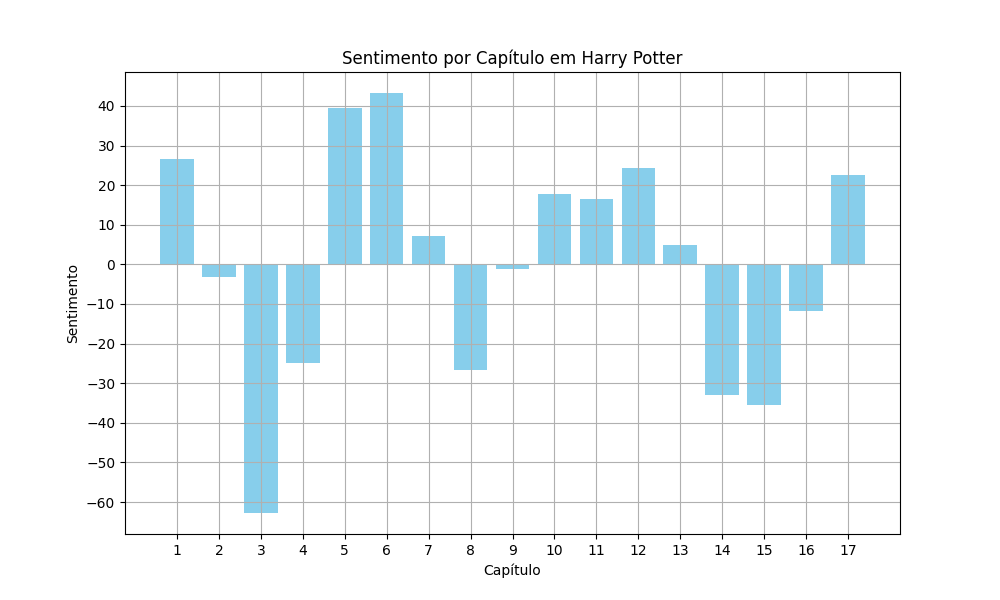
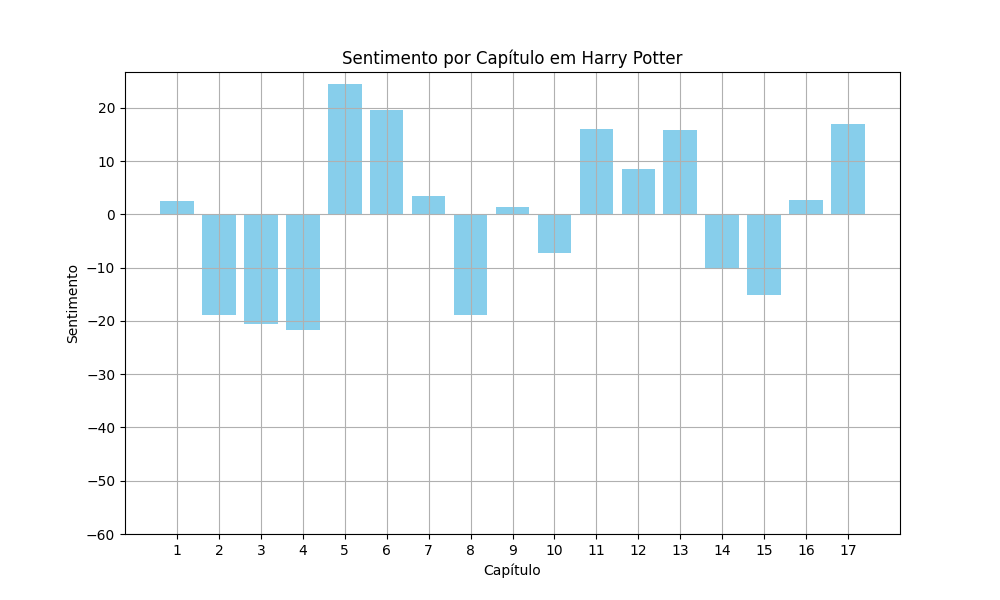
2 versoes

diff --git a/trabalhoLEM.py b/trabalhoLEM.py
@@ -26,7 +26,7 @@ for negative in open('negative.txt','r', encoding='utf-8'):
     negatives.append(negative.strip())
 
 sentilex = {}
-with open('SentiLex-lem-PT02.txt', 'r', encoding='utf-8') as file:
+with open('SentiLex-lem-PT02_copy.txt', 'r', encoding='utf-8') as file:
     for line in file:
         fields = line.strip().split(';')
         if len(fields) >= 4:
@@ -116,8 +116,6 @@ def calculate_sentiment(lemmas):
                 polarity = float(sentilex[lemma[0]])
                 #print("v4",sentilex[lemma[0]].split('=')[1])
             
-            if polarity == -1:
-                polarity = -0.746
             sentiment += polarity * multiplier
             #print(lemma[0], "polarity", polarity, "multiplier", multiplier, "sentiment", sentiment)
             multiplier = 1
